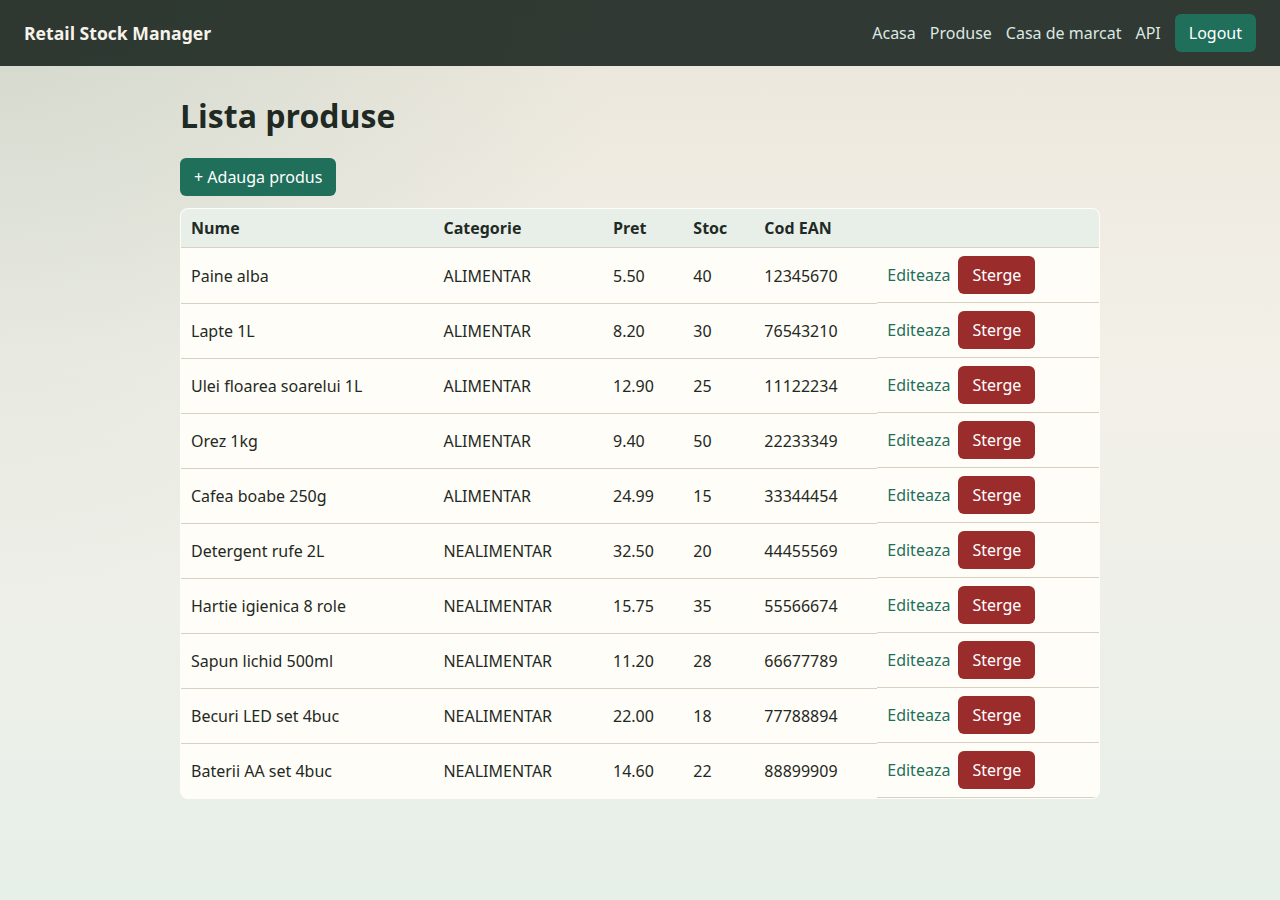
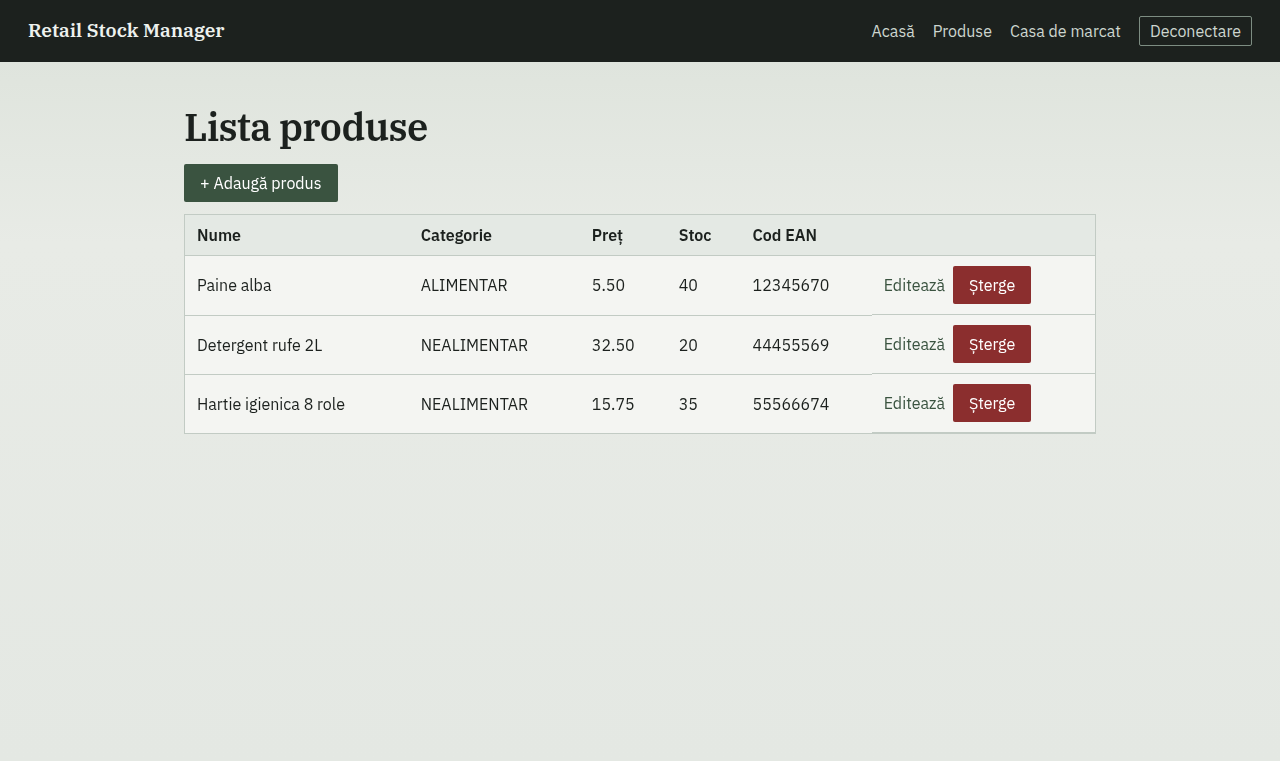
Keep the header logout control outlined, not a green submit.
Refresh README screenshots for the operator UI.

diff --git a/src/main/resources/static/css/app.css b/src/main/resources/static/css/app.css
@@ -230,6 +230,20 @@ button.btn-danger {
     background: var(--danger);
 }
 
+.site-nav button,
+.site-nav button[type="submit"] {
+    background: transparent;
+    border: 1px solid #7d8d82;
+    color: #cdd6cf;
+    padding: 4px 10px;
+}
+
+.site-nav button:hover,
+.site-nav button[type="submit"]:hover {
+    background: rgba(255, 255, 255, 0.08);
+    color: #fff;
+}
+
 .form-grid label {
     display: block;
     margin: 12px 0 4px;

diff --git a/src/main/webapp/css/app.css b/src/main/webapp/css/app.css
@@ -230,6 +230,20 @@ button.btn-danger {
     background: var(--danger);
 }
 
+.site-nav button,
+.site-nav button[type="submit"] {
+    background: transparent;
+    border: 1px solid #7d8d82;
+    color: #cdd6cf;
+    padding: 4px 10px;
+}
+
+.site-nav button:hover,
+.site-nav button[type="submit"]:hover {
+    background: rgba(255, 255, 255, 0.08);
+    color: #fff;
+}
+
 .form-grid label {
     display: block;
     margin: 12px 0 4px;
